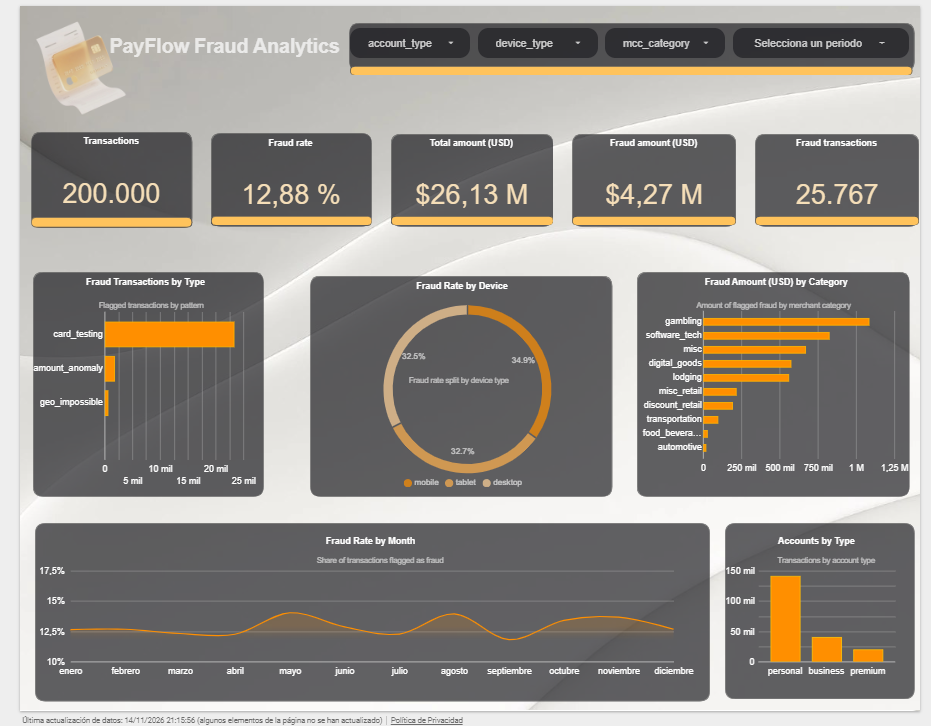
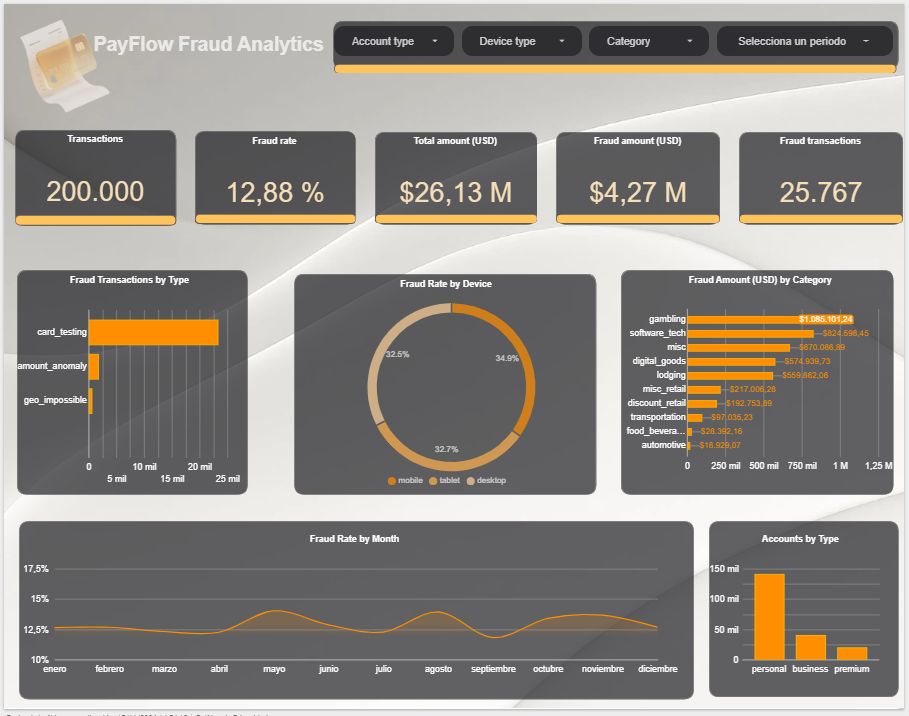
docs: tests section, pinned deps, Bronze duplicate evidence, refreshed dashboard capture

diff --git a/README.md b/README.md
@@ -110,6 +110,7 @@ Gold data is loaded into BigQuery as the analytical warehouse after merchant nam
 | `notebooks/` | EDA over the star-schema tables in BigQuery, plus its pinned `requirements.txt` |
 | `data/` | `mcc_codes.json`: public MCC reference list (981 codes) that `scripts/generate_mcc_catalog.py` turns into the dbt seed |
 | `scripts/` | Utilities: `abort_multipart.py`, `generate_mcc_catalog.py` |
+| `tests/` | pytest suites for the ML code and the service containers (see [Tests](#tests)) |
 
 ## Running locally
 
@@ -122,6 +123,8 @@ docker compose up -d
 ```
 
 The simulator starts immediately and writes a batch every 5 minutes. FX rates are available at `http://localhost:8001/rates`, and the streaming dashboards are at `http://localhost:3001` (Grafana) over `http://localhost:9090` (Prometheus). Airbyte is not part of `docker-compose.yml`: it is installed separately and expected at `http://localhost:8000`.
+
+Python dependencies are pinned to exact versions in every `requirements.txt`. The ML training and serving files share the same `xgboost`, `scikit-learn`, `joblib` and `numpy` on purpose: the model is a serialized scikit-learn pipeline and has to load in the scoring container exactly as it was trained.
 
 This is a local demo stack. The compose file publishes ports on all interfaces and Grafana ships with the default `admin` password, so do not run it on an untrusted network.
 
@@ -164,13 +167,29 @@ The batch pipeline trains the fraud model on historical Gold features; the strea
 `silver_transactions` uses dbt's `delete+insert` incremental strategy: each run appends only new rows so Bronze history accumulates in Silver. Gold tables are rebuilt from scratch on every run because they are aggregates; recomputing them in full is cheaper than merging deltas and avoids stale rollup bugs.
 
 **Staging deduplicates Bronze before anything joins to it.**
-Bronze is append-only, so a re-sync or reset in Airbyte can land the same account, transaction or FX rate twice, and a reference file can repeat a raw merchant. Silver joins transactions to all of them with `LEFT JOIN`, so one duplicated row upstream multiplies every transaction downstream and breaks the `unique` tests. The `stg_*` models therefore keep one row per key (`ROW_NUMBER() ... QUALIFY`), which keeps every join one-to-one regardless of what Bronze holds.
+Bronze is append-only, so a re-sync or reset in Airbyte can land the same account, transaction or FX rate twice, and a reference file can repeat a raw merchant. Silver joins transactions to all of them with `LEFT JOIN`, so one duplicated row upstream multiplies every transaction downstream and breaks the `unique` tests. The `stg_*` models therefore keep one row per key (`ROW_NUMBER() ... QUALIFY`), which keeps every join one-to-one regardless of what Bronze holds. This happened here: the Airbyte sync on Nov 10 re-emitted the 200,000 seed transactions already loaded on Nov 9, so Bronze held 678,543 `transactions` rows for 478,543 distinct ids, and CI's `unique` tests caught the fan-out in Silver.
 
 **Merchant name and MCC stay out of the model.**
 The fraud model trains only on behavioral and account features (`amount_usd`, `hour_of_day`, `day_of_week`, `is_weekend`, `account_age_days`, `latency_ms`, `account_country`, `device_type`, `currency`). It excludes `merchant` and `merchant_clean` because names in raw data are dirty: "Amazon", "AMAZON.COM", and "amzn marketplace" are the same merchant but would appear as three different categorical values, and that would not generalize to unseen variants at inference time. It also excludes `mcc_category` and `risk_tier`: they are stable, normalized through the `mcc_catalog` seed, and are carried in Gold and the marts for analysis and dashboards, but the model has to detect fraud from behavior, not from a merchant label. Adding MCC as a feature is a reasonable next experiment.
 
 **Fraud scoring thresholds.**
 The ML service applies three thresholds to the model's output probability: `approve` (< 0.30), `review` (0.30–0.69), `decline` (≥ 0.70). These are configurable via environment variables (`REVIEW_THRESHOLD`, `DECLINE_THRESHOLD`). A separate `FRAUD_THRESHOLD` (default 0.50) controls the boolean `is_fraud` flag independently of the authorization decision; a transaction can be in `review` without being flagged as fraud yet.
+
+## Tests
+
+Two pytest suites run in CI next to the dbt checks, in separate environments because the ML and service containers pin different `numpy` versions:
+
+```bash
+pip install -r tests/requirements-ml.txt && pytest tests/ml
+pip install -r tests/requirements-services.txt && pytest tests/services
+```
+
+| Suite | What it checks |
+| --- | --- |
+| `tests/ml` | Feature contract (no label, merchant, MCC or PII features), time-based split, pipeline behaviour on unseen categories, and the scoring API end to end: approve / review / decline boundaries, input validation and normalization, 503 without a model, fail-fast startup, Prometheus counters |
+| `tests/services` | Fraud-risk model of the simulator and the historical seed (and that both stay identical), FX rates determinism and query validation, consumer lag gauge, and that every Postgres write is idempotent with bound parameters |
+
+The tests build a tiny model on synthetic data, so they need no database, Kafka, R2 or trained artifact. They already caught a real bug: the scoring API rejected `" usd "` because the length check ran before the whitespace trim.
 
 ## Evidence
 
@@ -260,7 +279,7 @@ Sections:
 
 ![Looker Studio dashboard](docs/screenshots/looker-studio-dashboard.png)
 
-Five KPIs (transactions, fraud rate, total amount, flagged fraud amount, flagged fraud transactions), five charts (fraud by pattern, device, merchant category, month, and account type) and four filters (account type, device type, MCC category, date range). All filters apply to every component.
+Five KPIs (transactions, fraud rate, total amount, flagged fraud amount, flagged fraud transactions), five charts (fraud by pattern, device, merchant category, month, and account type) and four filters (account type, device type, merchant category, date range). All filters apply to every component.
 
 > **The dashboard reads a snapshot, not a live BigQuery connection.** BigQuery Sandbox tables expire after 60 days, and a live connection would break the public link when they do. So the dashboard uses Looker Studio's Extract Data connector: a copy of `fct_transactions` (200,000 rows, eight fields: transaction id, date, account type, device type, MCC category, fraud pattern, `is_fraud`, `amount_usd`) stored inside Looker Studio. The three derived metrics (fraud transactions, fraud rate, fraud amount) are calculated fields on top of that extract. Auto-refresh is off. To rebuild it, reload the tables with `load_to_bigquery.py` and create a new extract from `fct_transactions`.
 
